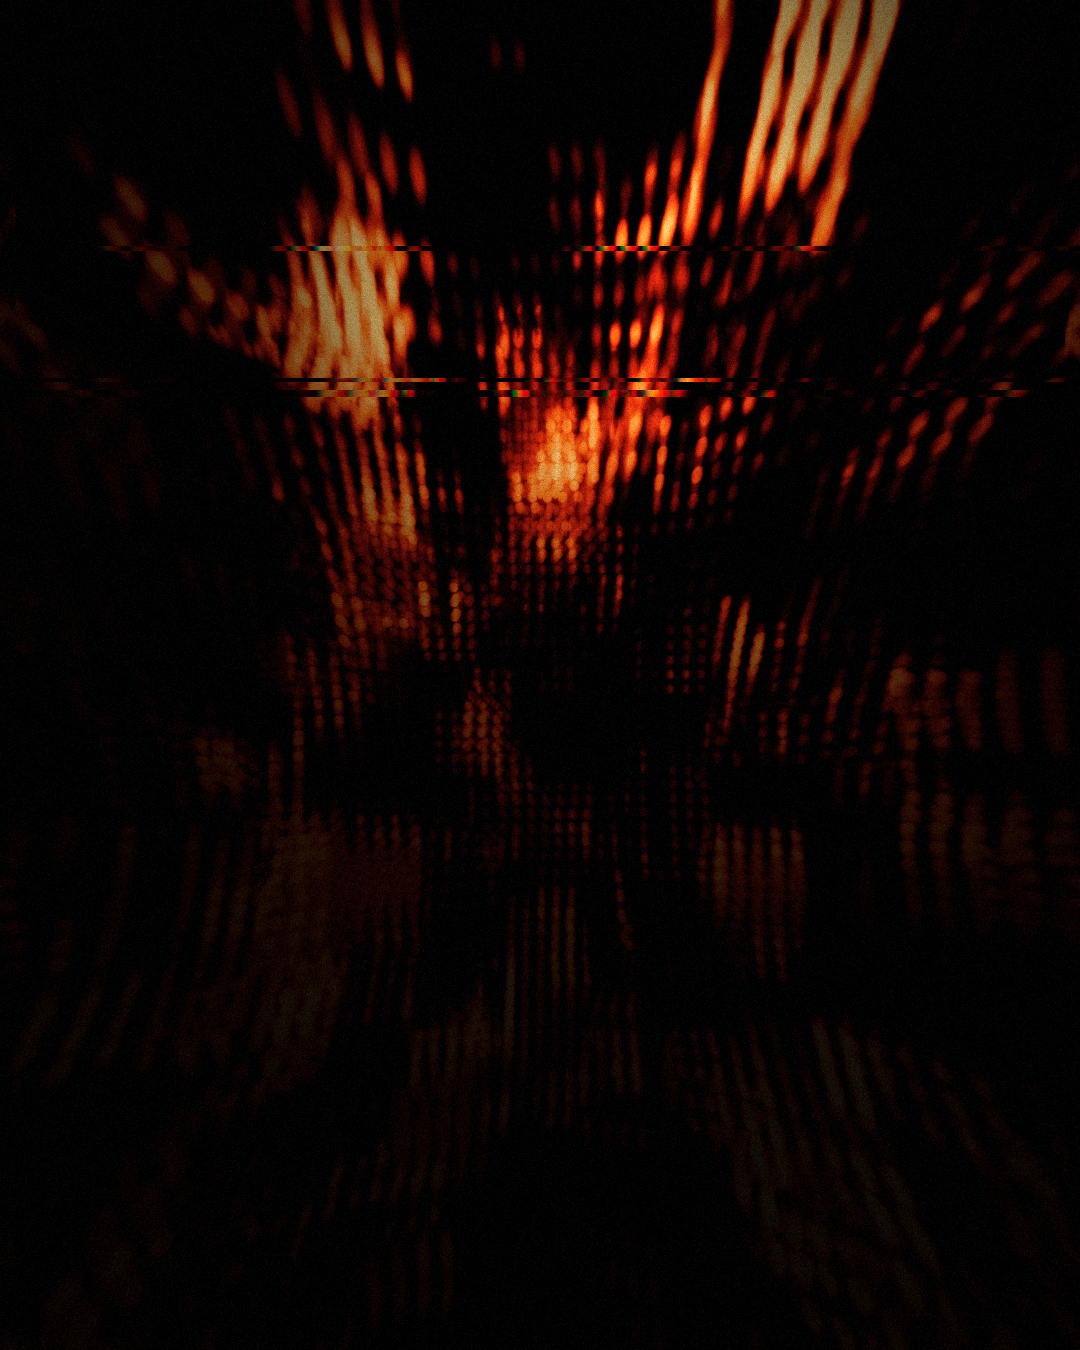
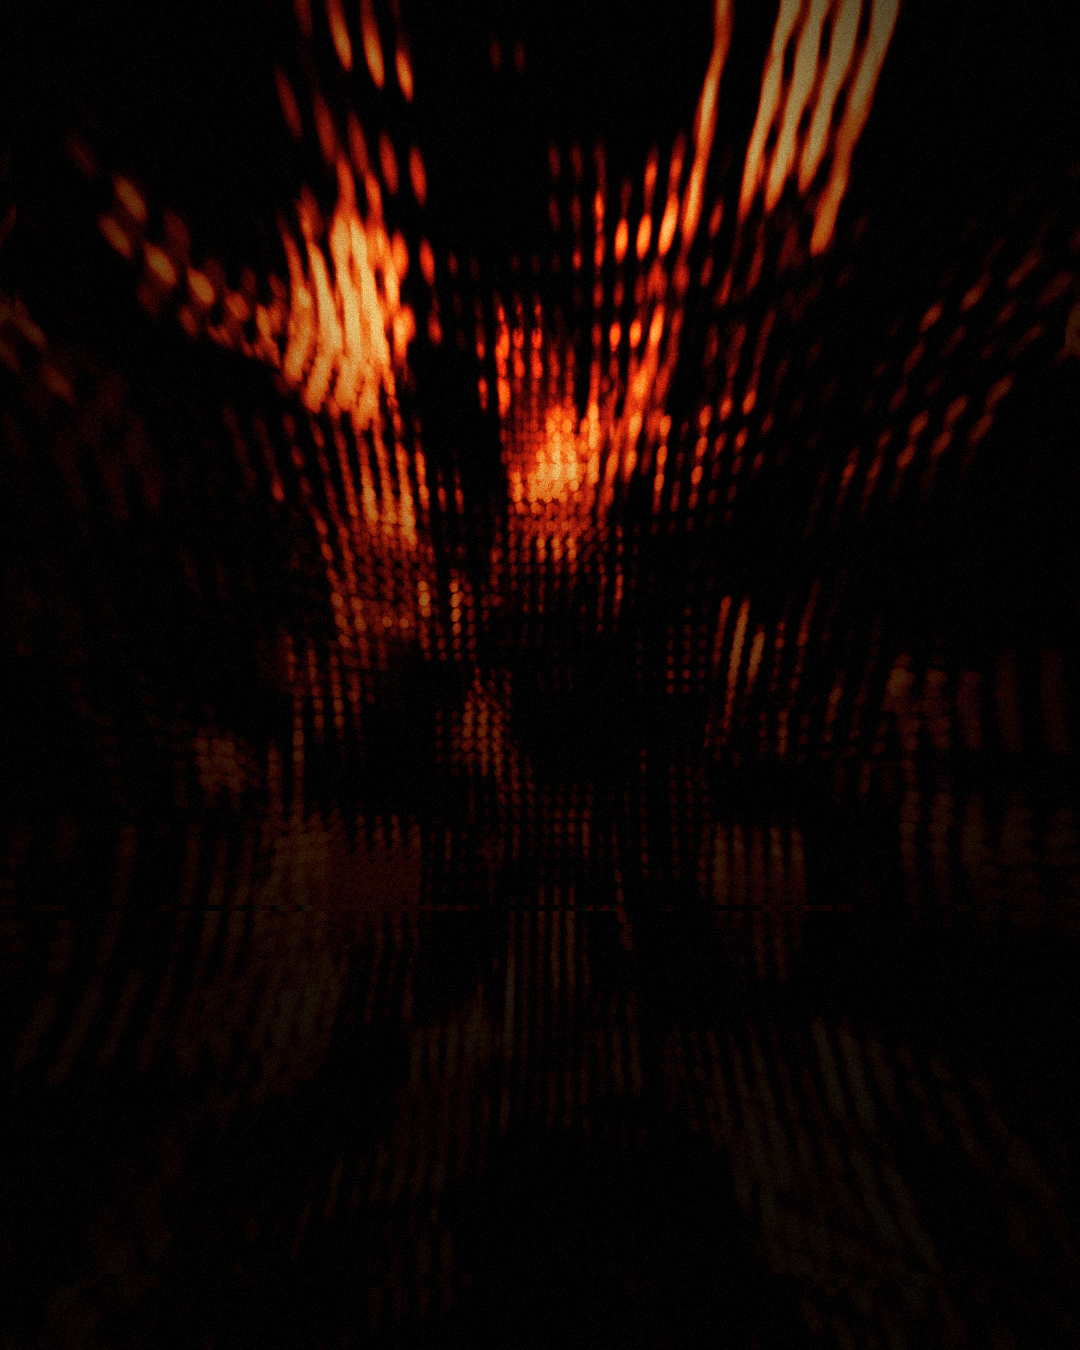
WARM 24.10 — layout centrat, conform zonelor sigure Meta (feed 4:5 + grilă 3:4)
Claude-Session: https://claude.ai/code/session_01PsYJ7xTqRMzxVLnVuQx1Lt

diff --git a/warm_24oct/poster.html b/warm_24oct/poster.html
@@ -4,34 +4,37 @@
 :root{--cream:#F2E8DA;--ember:#FF5A1F}
 *{margin:0;padding:0;box-sizing:border-box}
 body{width:1080px;height:1350px;background:#000;overflow:hidden}
-.p{position:relative;width:1080px;height:1350px;background:url(bg_heat.png) center/cover;color:var(--cream);font-family:'Archivo';}
-.mono{font-family:'Space Mono';font-size:17px;letter-spacing:.06em;text-transform:uppercase}
-.top{position:absolute;left:64px;right:64px;top:58px;display:flex;justify-content:space-between;align-items:flex-start}
-.logo{border:1px dashed rgba(242,232,218,.55);padding:14px 22px;font-family:'Archivo';font-stretch:125%;font-weight:800;font-size:34px;letter-spacing:.02em}
-.logo small{display:block;font-family:'Space Mono';font-weight:400;font-size:11px;letter-spacing:.12em;opacity:.6;margin-top:4px}
-.date{text-align:right;line-height:1.45}
-.hero{position:absolute;left:58px;top:330px}
-.hero .n{font-stretch:62%;font-weight:800;font-size:132px;line-height:.86;letter-spacing:-.01em;text-transform:uppercase}
-.hero .n i{font-style:normal;font-family:'Space Mono';font-size:15px;vertical-align:top;margin-left:10px;letter-spacing:.1em;color:var(--ember);position:relative;top:14px}
-.side{position:absolute;right:54px;top:420px;writing-mode:vertical-rl;opacity:.7}
-.time{position:absolute;left:64px;right:64px;bottom:190px;display:flex;align-items:baseline;gap:22px;border-top:1px solid rgba(242,232,218,.45);padding-top:22px}
-.time b{font-stretch:125%;font-weight:300;font-size:64px;letter-spacing:-.01em}
-.time span{flex:1;height:1px;background:var(--cream);opacity:.5;transform:translateY(-18px)}
-.bot{position:absolute;left:64px;right:64px;bottom:58px;display:flex;justify-content:space-between;align-items:flex-end;line-height:1.5}
-.venue b{font-family:'Archivo';font-stretch:100%;font-weight:700;font-size:26px;letter-spacing:.01em;display:block;text-transform:none}
-.logos{display:flex;gap:12px}
-.logos div{border:1px dashed rgba(242,232,218,.45);width:108px;height:48px;display:grid;place-items:center;font-size:10px;opacity:.7}
-</style></head><body><div class="p">
-<div class="top"><div class="logo">WARM<small>LOGO OFICIAL</small></div>
-<div class="date mono">Sábado<br><span style="font-size:40px;font-family:Archivo;font-stretch:125%;font-weight:800;letter-spacing:0">24.10.26</span></div></div>
-<div class="hero">
-<div class="n">Just2<i>01</i></div>
-<div class="n">Salvi<br>Fernandez<i>02</i></div>
-<div class="n">Coral<i>03</i></div>
-<div class="n">Bitch<i>04</i></div>
+.p{position:relative;width:1080px;height:1350px;background:url(bg_heat.png) center/cover;color:var(--cream);font-family:'Archivo';
+  display:flex;flex-direction:column;align-items:center;justify-content:space-between;text-align:center;padding:110px 120px}
+/* safe zone guide (debug) */
+.p::before{content:"";position:absolute;inset:0;background:radial-gradient(ellipse 46% 30% at 50% 45%,rgba(0,0,0,.55),rgba(0,0,0,0) 100%);pointer-events:none}
+.p>*{position:relative}
+.guide{position:absolute;inset:110px 120px;border:1px dashed #0f0;display:none}
+.mono{font-family:'Space Mono';font-size:17px;letter-spacing:.14em;text-transform:uppercase}
+.logo{border:1px dashed rgba(242,232,218,.55);padding:12px 26px;font-stretch:125%;font-weight:800;font-size:40px;letter-spacing:.04em}
+.logo small{display:block;font-family:'Space Mono';font-weight:400;font-size:10px;letter-spacing:.16em;opacity:.6;margin-top:2px}
+.head{display:flex;flex-direction:column;align-items:center;gap:22px}
+.date{font-stretch:125%;font-weight:800;font-size:30px;letter-spacing:.02em}
+.date span{font-family:'Space Mono';font-weight:400;font-size:17px;letter-spacing:.14em;opacity:.8;margin:0 14px;vertical-align:4px}
+.lineup .n{font-stretch:62%;font-weight:800;font-size:118px;line-height:.9;text-transform:uppercase;letter-spacing:-.005em}
+.lineup .sep{font-family:'Space Mono';font-size:15px;color:var(--cream);opacity:1;letter-spacing:.3em;margin:6px 0 8px}
+.time{display:flex;align-items:center;gap:26px;width:760px}
+.time b{font-stretch:125%;font-weight:300;font-size:54px}
+.time span{flex:1;height:1px;background:var(--cream);opacity:.55}
+.foot{display:flex;flex-direction:column;align-items:center;gap:10px}
+.foot b{font-weight:700;font-size:28px;letter-spacing:.01em}
+.logos{display:flex;gap:14px;margin-top:18px}
+.logos div{border:1px dashed rgba(242,232,218,.45);width:112px;height:46px;display:grid;place-items:center;font-size:10px;opacity:.7}
+</style></head><body><div class="p"><div class="guide"></div>
+<div class="head"><div class="logo">WARM<small>LOGO OFICIAL</small></div>
+<div class="date">SÁB<span>—</span>24.10.2026</div></div>
+<div class="lineup">
+<div class="n">Just2</div><div class="sep">✕</div>
+<div class="n">Salvi Fernandez</div><div class="sep">✕</div>
+<div class="n">Coral</div><div class="sep">✕</div>
+<div class="n">Bitch</div>
 </div>
-<div class="side mono">House — Techno — 8 horas</div>
 <div class="time"><b>23:00</b><span></span><b>07:00</b></div>
-<div class="bot"><div class="venue mono"><b>Bribón del Puerto</b>Aguadulce · Almería</div>
+<div class="foot"><b>Bribón del Puerto</b><div class="mono">Aguadulce · Almería</div>
 <div class="logos mono"><div>logo venue</div><div>logo partner</div></div></div>
 </div></body></html>

diff --git a/warm_24oct/shot.js b/warm_24oct/shot.js
@@ -2,4 +2,4 @@ const {chromium}=require('/opt/node22/lib/node_modules/playwright');
 (async()=>{const b=await chromium.launch();
 const p=await b.newPage({viewport:{width:1080,height:1350}});
 await p.goto('file://'+__dirname+'/poster.html');await p.evaluate(()=>document.fonts.ready);await p.waitForTimeout(800);
-await p.screenshot({path:'WARM_directie_A.png'});await b.close();})();
+await p.screenshot({path:process.argv[2]||'WARM_directie_B.png'});await b.close();})();

diff --git a/warm_24oct/bg.py b/warm_24oct/bg.py
@@ -24,7 +24,7 @@ L=np.clip((L-0.38)/0.62,0,1)
 g=np.stack([np.interp(L**1.6,xs,stops[:,c]) for c in range(3)],-1)
 # heat concentration: bright core top-right, cooling toward bottom
 yy,xx=np.mgrid[0:1350,0:1080]/np.array([1350,1080])[:,None,None]
-heat=np.exp(-(((xx-0.6)/0.36)**2+((yy-0.2)/0.3)**2))
+heat=np.exp(-(((xx-0.5)/0.38)**2+((yy-0.2)/0.3)**2))
 g=g*(0.06+1.1*heat[...,None])
 # cold residue bottom-left from original colors (cyan) -> dawn
 cold=img*np.array([0.15,0.55,0.75])*np.clip((yy-0.55)/0.45,0,1)[...,None]*np.clip(1-xx*1.3,0,1)[...,None]*0.55
@@ -32,7 +32,7 @@ cl=(cold.mean(-1,keepdims=True)>0.12)
 #g=g+cold*cl
 # horizontal glitch slices with RGB split
 for _ in range(3):
-    y0=int(rng.integers(180,700)); h=int(rng.integers(2,9)); sh=int(rng.integers(-90,90))
+    y0=int(rng.choice([rng.integers(880,925),rng.integers(1262,1300),rng.integers(30,80)])); h=int(rng.integers(2,9)); sh=int(rng.integers(-90,90))
     band=g[y0:y0+h].copy()
     g[y0:y0+h,:,0]=np.roll(band[...,0],sh+6,1); g[y0:y0+h,:,1]=np.roll(band[...,1],sh,1); g[y0:y0+h,:,2]=np.roll(band[...,2],sh-6,1)
 # vignette + grain
